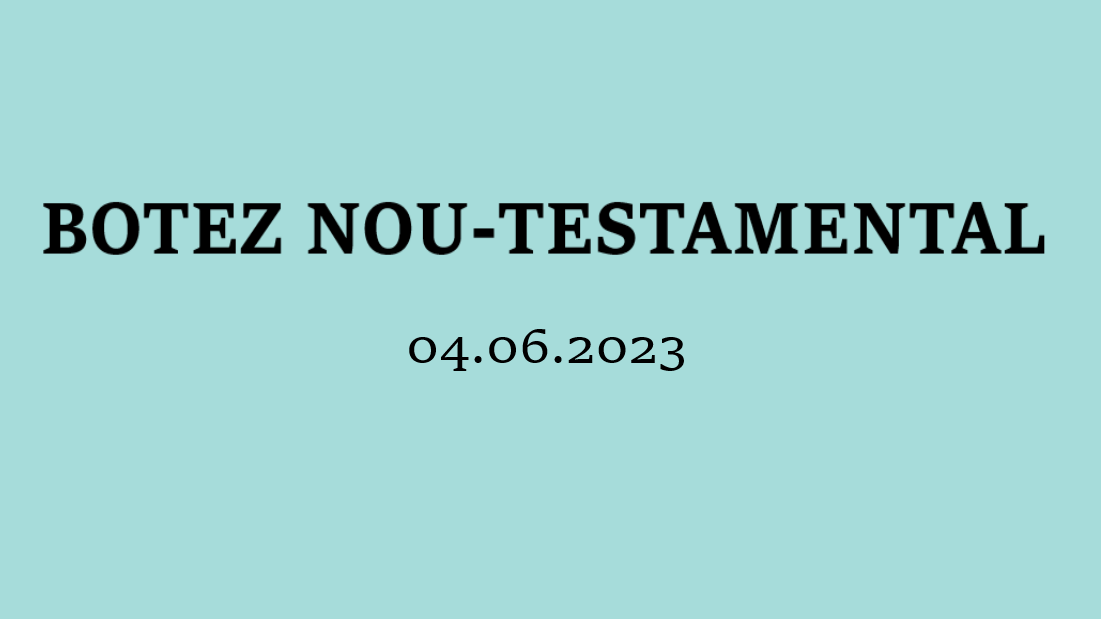
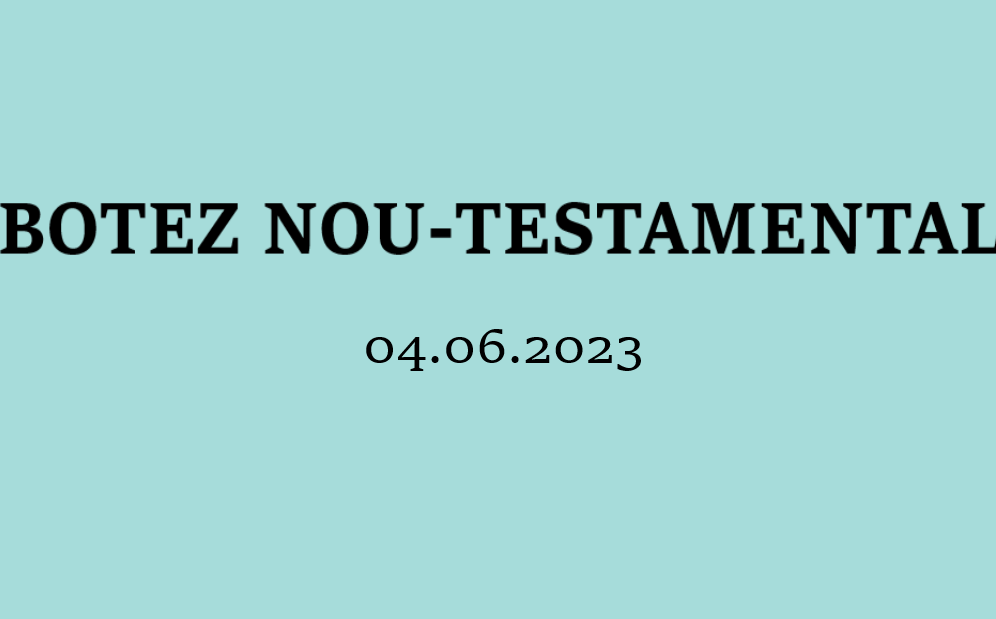
rework news slider

Changed region(s): [[0.0, 0.3069, 1.0, 0.4297], [0.3424, 0.5218, 0.6536, 0.6139]]

diff --git a/index.css b/index.css
@@ -137,9 +137,10 @@
 /* FROM WEBFLOW: */
 
 .mask {
-  border-bottom: 1px solid #000;
-  border-left: 1px solid #000;
-  border-top: 1px solid #000
+  border-bottom: 1px solid #00000036;
+  border-left: 1px solid #00000036;
+  border-top: 1px solid #00000036;
+  border-right: 1px solid #00000036;
 }
 
 .container.this-week {
@@ -192,32 +193,6 @@
   }
 }
 
-.news-slides {
-  /* display: none; */
-}
-.slideshow-container {
-  max-width: 1000px;
-  position: relative;
-  margin: auto;
-}
-
-.news-slides {
-  position: absolute;
-  top: 0;
-  left: 0;
-  opacity: 0;
-  transition: transform 0.5s ease-in-out, opacity 0.5s ease-in-out;
-}
-
-.news-slides.show {
-  opacity: 1;
-  transform: translateX(0%);
-}
-
-.news-slides.hide {
-  opacity: 0;
-  transform: translateX(-100%);
-}
 
 .headshot-circle {
   width: 150px;
@@ -311,7 +286,6 @@
   background-color: #fff;
   border-radius: 0;
   margin: 0 0 auto;
-  /* padding-top: 12%; */
   padding-bottom: 0;
   display: block;
   overflow: visible;
@@ -319,19 +293,68 @@
 
 .news-container {
   max-width: 940px;
-  margin: 0 auto;
-  height: 640px;
-  /* max-width: 952px; */
+  margin: 20px auto;
   object-fit: contain;
-  /* box-shadow: 4px 4px 4px rgba(0, 0, 0, .2); */
 }
 
 .news-slider {
-  height: 450px;
+  /* height: 450px; */
   text-align: center;
   clear: both;
   background: #ddd;
   position: relative;
-  /* height: 100%; */
   background-color: rgba(255, 255, 255, 0);
+}
+
+.w-slider-mask {
+  display: flex;
+}
+
+.slideshow-container {
+  max-width: 1000px;
+  position: relative;
+  /* margin: auto; */
+  display: flex;
+  flex: 1;
+}
+
+.news-slides {
+  opacity: 0;
+  transition: transform 0.5s ease-in-out, opacity 0.5s ease-in-out;
+  height: 100%;
+  flex: 1;
+  display: none;
+}
+
+.news-slides.show {
+  opacity: 1;
+  display: block;
+  transform: translateX(0%);
+}
+
+/* .news-slides.hide {
+  opacity: 0;
+  display: none;
+  transform: translateX(-100%);
+} */
+
+.news-slider-container {
+  height: 528px;
+  background-color: #00000036;
+}
+
+.news-slides > img {
+  height: 100%;
+  margin: 0 auto;
+  object-fit: cover;
+}
+
+@media screen and (max-width:976px) {
+  .news-slider-container {
+    height: calc(100vw * 9 / 16); /*keep a 19:9 ratio for the image*/
+  }
+  .news-grid {
+    /* width: 90%; */
+    margin: 0 auto;
+  }
 }

diff --git a/index.html b/index.html
@@ -114,9 +114,7 @@
             <div class="news-container">
                 <div class="news-grid">
                     <!--TODO: Delete these attributes-->
-                    <div data-delay="4000" data-animation="slide" class="news-slider" data-autoplay="true" data-easing="ease" data-hide-arrows="false"
-                    data-disable-swipe="false" data-autoplay-limit="0" data-nav-spacing="3"
-                    data-duration="500" data-infinite="true">
+                    <div class="news-slider-container news-slider">
                         <div class="mask w-slider-mask">
                             <div class="slideshow-container">
                             
@@ -125,7 +123,7 @@
                                 </div>
                             
                                 <div class="news-slides">
-                                    <img src="./assets/noutate2.png" style="width:100%">
+                                    <img src="./assets/noutate2.png">
                                 </div>
                             
                                 <div class="news-slides">

diff --git a/index_webflow.css b/index_webflow.css
@@ -1246,7 +1246,9 @@ label {
 
 .icon,
 .icon-2 {
-    color: #a5a29c
+    color: #fff;
+    /* mix-blend-mode: difference; */
+    text-shadow: 2px 2px 4px #000000;
 }
 
 .grid-5 {
@@ -1468,10 +1470,6 @@ label {
     .image-6 {
         height: 100%;
         object-fit: contain
-    }
-
-    .icon {
-        color: #a5a29c
     }
 }
 

diff --git a/index.js b/index.js
@@ -43,6 +43,7 @@ function goToSlide(pos) {
 
   slides[slideIndex - 1].classList.add("show");
 
+
   clearTimeout(slideshowTimer);
   slideshowTimer = setTimeout(showSlides, 5000);
 }
